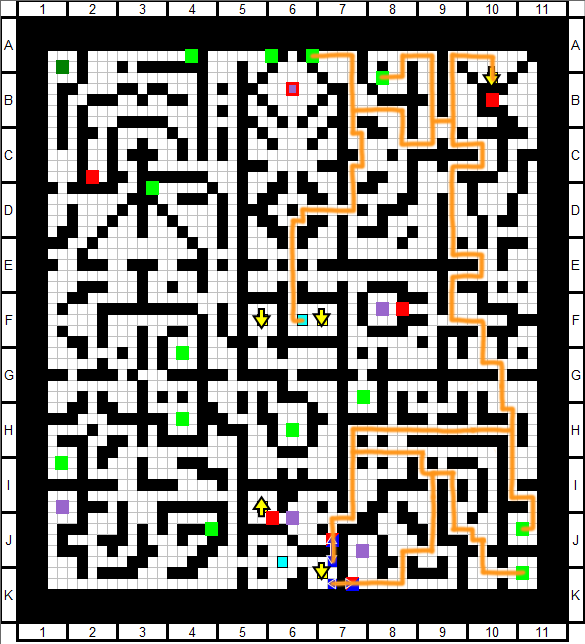
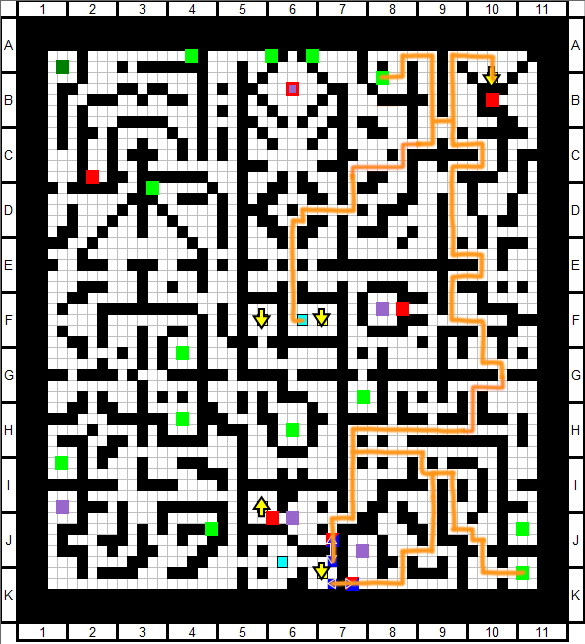
Updated 6F maps and removed an extra chest

Changed region(s): [[0.5231, 0.0621, 0.7077, 0.2795], [0.8, 0.5901, 0.9231, 0.8385]]

diff --git a/item/chests.md b/item/chests.md
@@ -162,7 +162,7 @@ Any treasure located in floor A that can only be obtained after reaching floor B
 | Bone Stake | O |
 | Bottle of Hyperspace | O |
 | Concept of Everything x2 | X |
-| Energy Gem | O |
+| Energy Gem | X |
 | Fighter's Soul x2 | O |
 | First Aid Kit | O |
 | Goriki's Charm | X |
@@ -172,8 +172,8 @@ Any treasure located in floor A that can only be obtained after reaching floor B
 | Pale Wing Thruster | O |
 | Purple Dragon Crystal | X |
 | Stone of Awakening | O |
-| Floor Total | 11 |
-| Combined Total | 59 |
+| Floor Total | 10 |
+| Combined Total | 54 |
 
 #### <a id="floor-7"></a>Floor 7
 
